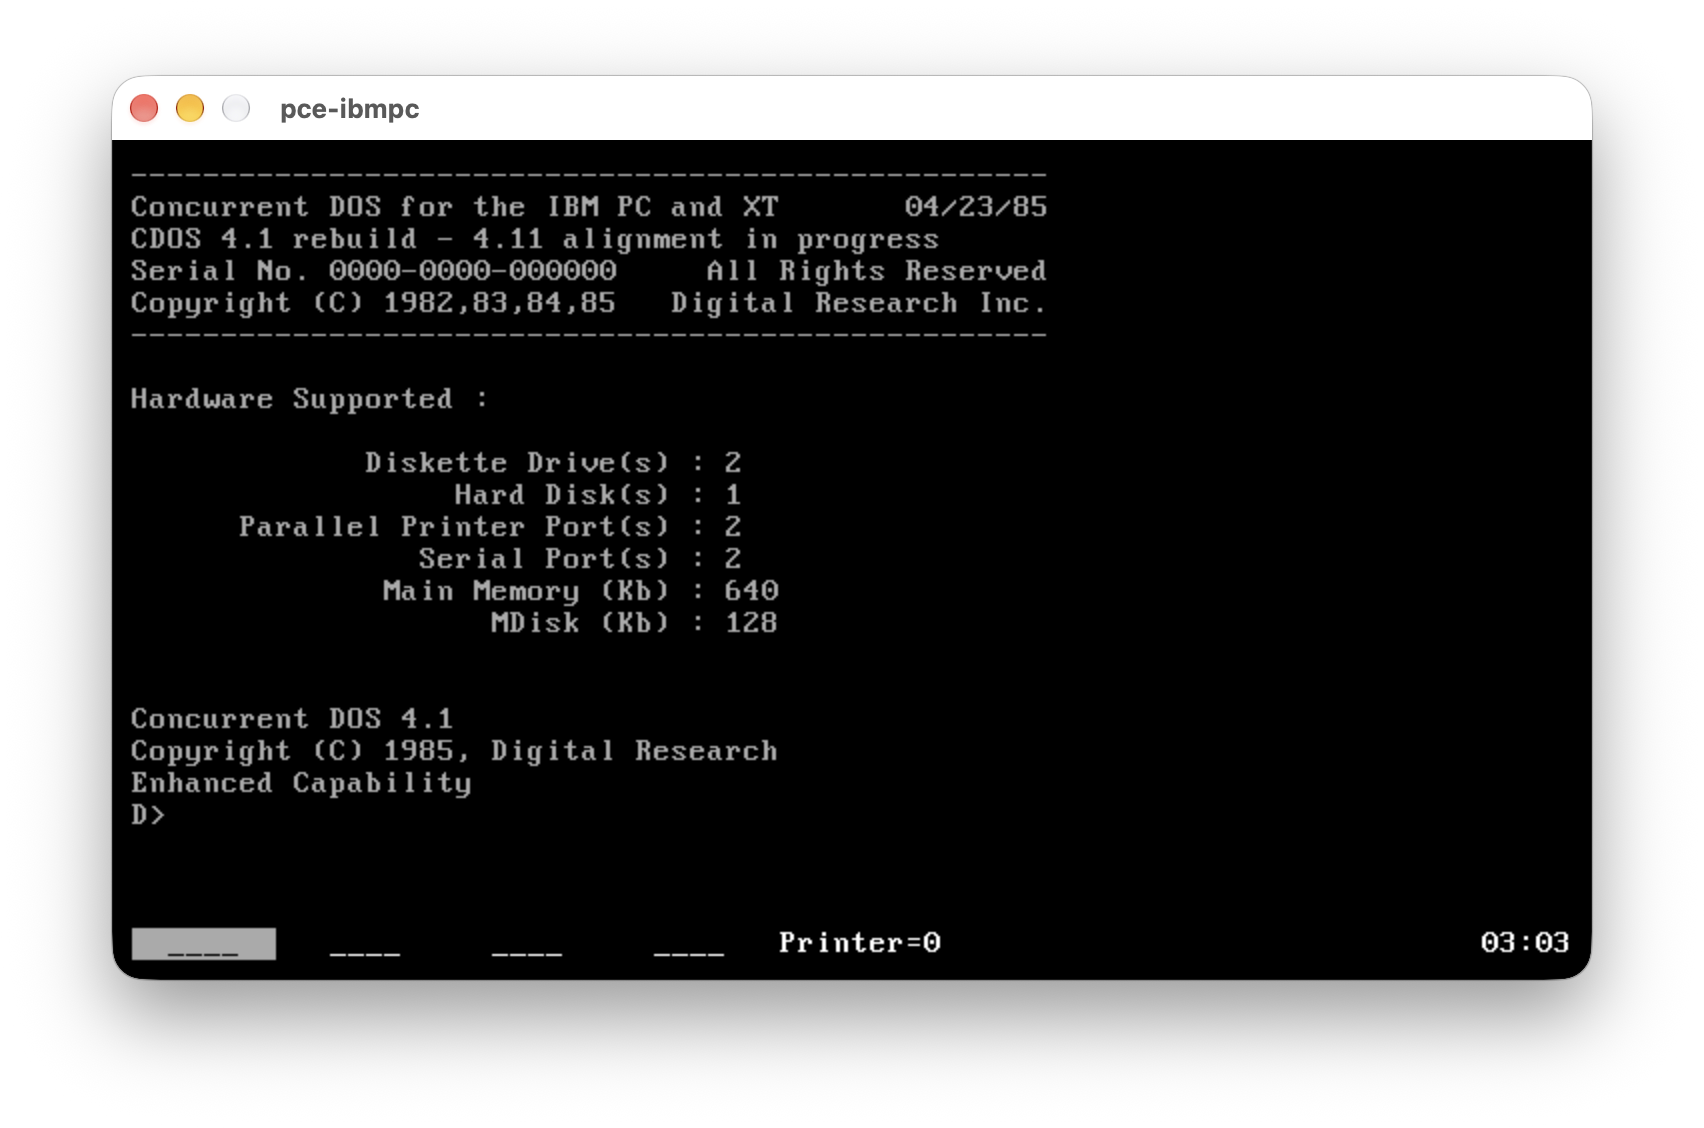
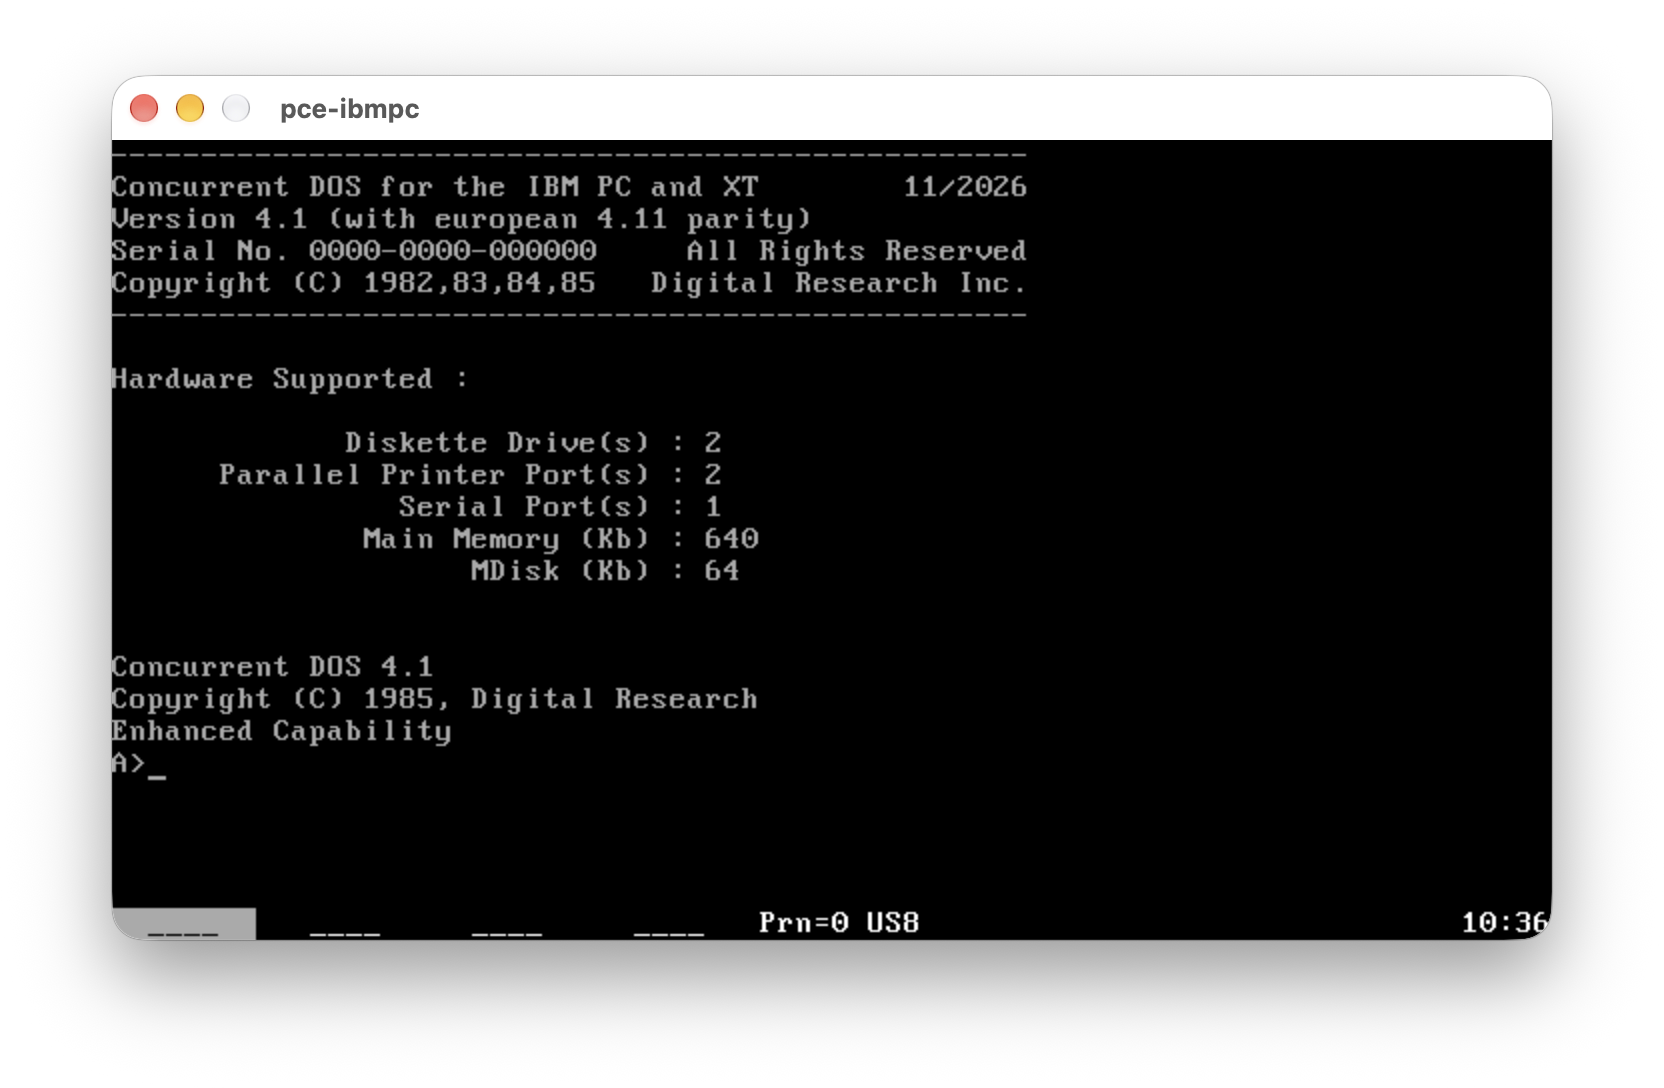
completion of reverse engineering

Changed region(s): [[0.0625, 0.0625, 0.9375, 0.5625], [0.0625, 0.5938, 0.4688, 0.75], [0.0625, 0.8125, 0.9375, 0.875]]

diff --git a/commands/spl/splc.h b/commands/spl/splc.h
@@ -1,0 +1,82 @@
+/* Wire/disk layouts from ../dsp/spldef.h; DRC uses byte-aligned words. */
+#include <portab.h>
+
+#define NSPOOL 8
+#define NDEVICE 16
+#define NJOB 254
+#define NONE 0xff
+#define HEAD 254
+
+#define C_WRITE 2
+#define C_DETACH 147
+#define F_OPEN 15
+#define F_CLOSE 16
+#define F_DELETE 19
+#define F_READ 20
+#define F_WRITE 21
+#define F_MAKE 22
+#define F_DMAOFF 26
+#define F_ATTRIB 30
+#define F_USERNUM 32
+#define F_READRAND 33
+#define F_WRITERAND 34
+#define F_ERRMODE 45
+#define F_PARSE 152
+#define Q_MAKE 134
+#define Q_OPEN 135
+#define Q_DELETE 136
+#define Q_READ 137
+#define Q_CREAD 138
+#define Q_WRITE 139
+#define Q_CWRITE 140
+#define P_DELAY 141
+#define P_PRIORITY 145
+
+struct s_spl {
+    UBYTE cmd_spl, job_spl, nam_spl[11], sta_spl;
+    UBYTE lst_spl, pri_spl, flg_spl, cpy_spl, clp_spl;
+    UWORD siz_spl, slp_spl, byt_spl;
+    UBYTE rsv_spl[7], dat_spl[128];
+};
+
+struct s_sst {
+    UBYTE job, jobname[11], status, lstnum, prior, flags;
+    UBYTE ocopies, rcopies;
+    UWORD osize, rsize, dma_cnt;
+};
+
+struct s_dst {
+    UBYTE sta_dst, nam_dst[8], typ_dst, frm_dst;
+    UWORD dat_dst;
+};
+
+struct s_jst {
+    UBYTE lst_jst, pri_jst, sst_jst, dst_jst;
+};
+
+struct bdos_fcb {
+    UBYTE dr, fn[8], ft[3], ex, s1, s2, rc;
+    UBYTE dm[16], cr, r0, r1, r2;
+};
+
+struct xdos_qpb {
+    UBYTE flg_qp, net_qp;
+    UWORD qadr_qp, nmsgs_qp;
+    UBYTE *bfptr_qp;
+    UBYTE name_qp[8];
+};
+
+struct xdos_qd {
+    UWORD link_qd;
+    UBYTE net_qd, org_qd;
+    UWORD flg_qd;
+    UBYTE name_qd[8];
+    UWORD len_qd, nmsg_qd, dqph_qd, nqph_qd;
+    UWORD mcnt_qd, mout_qd, bfpt_qd;
+};
+
+struct ixentry {
+    struct s_sst stat;
+    struct bdos_fcb fcb;
+    UBYTE pad[4];
+};

diff --git a/commands/spl/splc.c b/commands/spl/splc.c
@@ -1,0 +1,7 @@
+/*
+ * Behavioral reconstruction of SPL 4.11 from spl.a86.
+ * This is new source, not the recovered original SPL.C.
+ */
+#include "splc.h"
+
+EXTERN UWORD XDOS(), G_SY SDSK();

diff --git a/README.md b/README.md
@@ -1,6 +1,6 @@
 # Concurrent DOS 4.11 Kernel and Tools
 
-**Disk Images are now available as part of the project releases, ready to use ! Full Source Build in Progress**
+**Disk Images are now available as part of the project releases, ready to use ! Full Source Build**
 
 This project preserves Digital Research's Concurrent DOS 4.11, multitasking OS (CCP/M-86 follow up),
 including PC-MODE DOS 2.0 Compatibility, as a usable, rebuildable system for running and exploring
